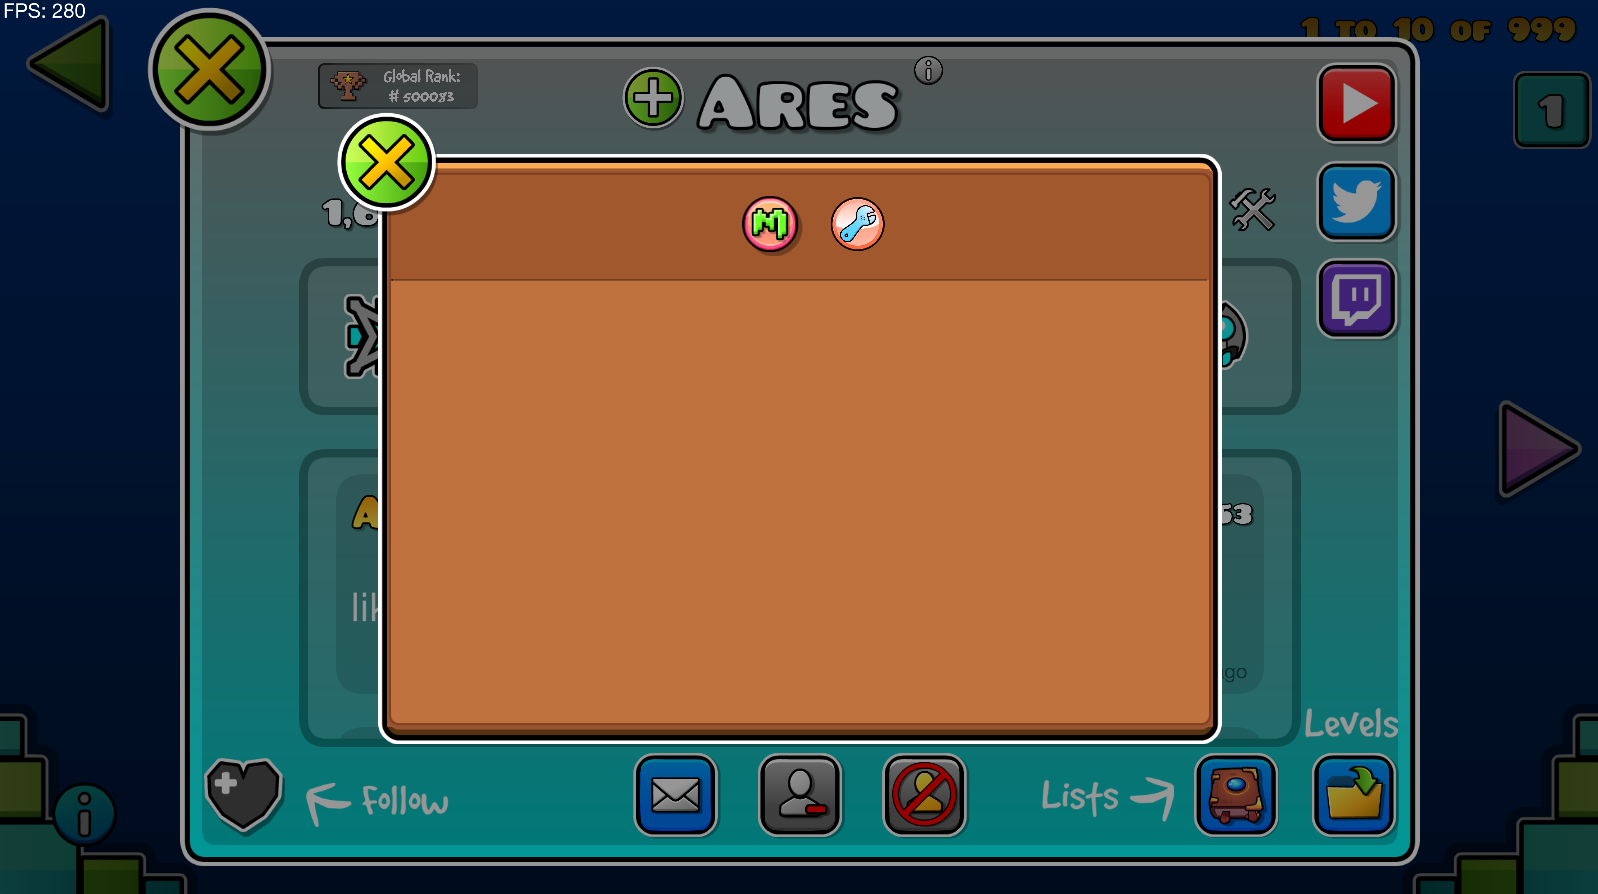
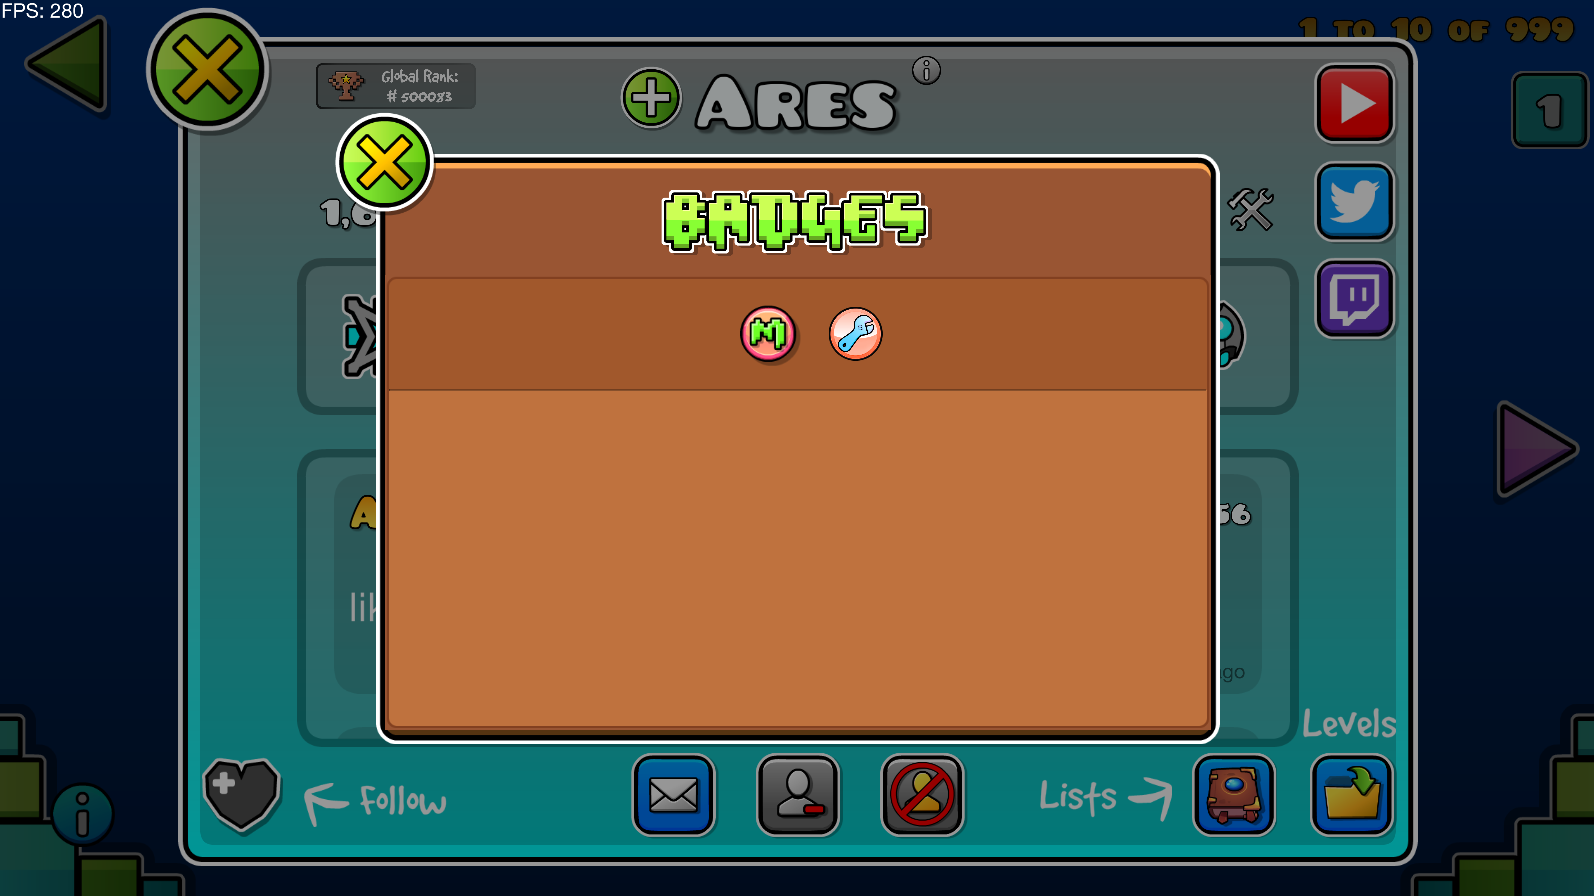
Added badge title sprite

diff --git a/src/badges/BadgeMenu.cpp b/src/badges/BadgeMenu.cpp
@@ -37,10 +37,16 @@ bool BadgeMenu::setup() {
     }
     cells.push_back(BadgeMenuCell::create(cell, { 300, 210 }));
 
-    auto border = OldBorder::create(ListView::create(cells.inner(), 40, 292, 198), { 0xBF, 0x72, 0x3E, 0xFF }, {294, 198}, {1, 1});
-    border->setPosition(m_mainLayer->getContentSize() / 2 - border->getContentSize() / 2);
+    auto border = OldBorder::create(ListView::create(cells.inner(), 40, 292, 160), { 0xBF, 0x72, 0x3E, 0xFF }, {294, 162}, {1, 1});
+    border->setPositionX(m_mainLayer->getContentSize().width / 2 - border->getContentSize().width / 2);
+    border->setPositionY(60);
     setTouchPriority(100);
     m_mainLayer->addChild(border);
+
+    CCSprite* title_badges = CCSprite::create("badges.png"_spr);
+    title_badges->setPosition({m_mainLayer->getContentSize().width / 2, 241});
+    title_badges->setScale(0.625f);
+    m_mainLayer->addChild(title_badges);
 
     return true;
 }
